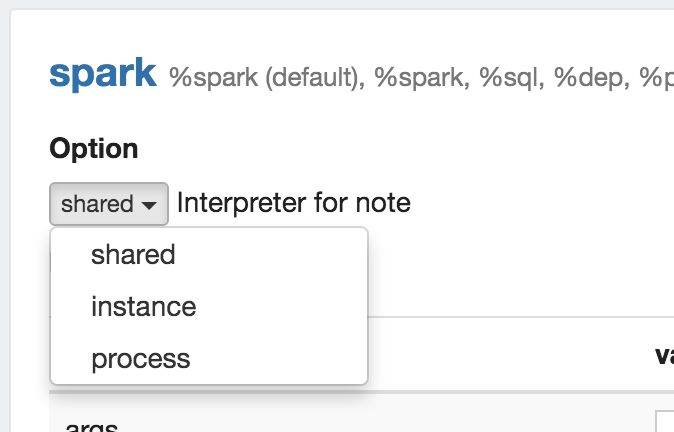
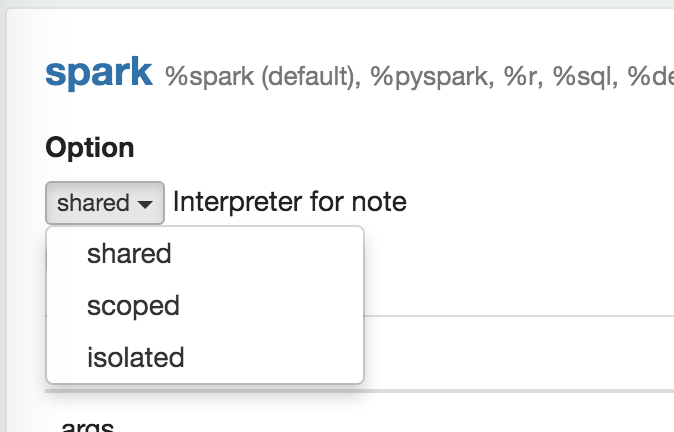
instance -> scoped, process -> isolated

diff --git a/zeppelin-web/src/app/interpreter/interpreter-create/interpreter-create.html b/zeppelin-web/src/app/interpreter/interpreter-create/interpreter-create.html
@@ -53,15 +53,15 @@ limitations under the License.
               <li>
                 <a style="cursor:pointer"
                    tooltip="Separate Interpreter instance for each note"
-                   ng-click="setSessionOption(setting.id, 'instance')">
-                  instance
+                   ng-click="setSessionOption(setting.id, 'scoped)">
+                  scoped
                 </a>
               </li>
               <li>
                 <a style="cursor:pointer"
                    tooltip="Separate Interpreter process for each note"
-                   ng-click="setSessionOption(setting.id, 'process')">
-                  process
+                   ng-click="setSessionOption(setting.id, 'isolated)">
+                  isolated
                 </a>
               </li>
             </ul>

diff --git a/zeppelin-web/src/app/interpreter/interpreter.controller.js b/zeppelin-web/src/app/interpreter/interpreter.controller.js
@@ -70,10 +70,10 @@ angular.module('zeppelinWebApp').controller('InterpreterCtrl', function($scope, 
       option = setting.option;
     }
 
-    if (sessionOption === 'process') {
+    if (sessionOption === 'isolated') {
       option.perNoteSession = false;
       option.perNoteProcess = true;
-    } else if (sessionOption === 'instance') {
+    } else if (sessionOption === 'scoped') {
       option.perNoteSession = true;
       option.perNoteProcess = false;
     } else {
@@ -93,9 +93,9 @@ angular.module('zeppelinWebApp').controller('InterpreterCtrl', function($scope, 
     }
 
     if (option.perNoteSession) {
-      return 'instance';
+      return 'scoped';
     } else if (option.perNoteProcess) {
-      return 'process';
+      return 'isolated';
     } else {
       return 'shared';
     }

diff --git a/zeppelin-web/src/app/interpreter/interpreter.html b/zeppelin-web/src/app/interpreter/interpreter.html
@@ -128,15 +128,15 @@ limitations under the License.
             <li>
               <a style="cursor:pointer"
                  tooltip="Separate Interpreter instance for each note"
-                 ng-click="setSessionOption(setting.id, 'instance')">
-                instance
+                 ng-click="setSessionOption(setting.id, 'scoped)">
+                scoped
               </a>
             </li>
             <li>
               <a style="cursor:pointer"
                  tooltip="Separate Interpreter process for each note"
-                 ng-click="setSessionOption(setting.id, 'process')">
-                process
+                 ng-click="setSessionOption(setting.id, 'isolated)">
+                isolated
               </a>
             </li>
           </ul>

diff --git a/docs/manual/interpreters.md b/docs/manual/interpreters.md
@@ -54,8 +54,8 @@ Each interpreters is belonged to a single group and registered together. All of 
 
 ## Interpreter binding mode
 
-Each Interpreter Setting can choose one of 'shared', 'instance', 'process' interpreter binding mode.
-In 'shared' mode, every notebook binded to the Interpreter Setting will share the single Interpreter instance. In 'instance' mode, each notebook will create new Interpreter instance in the same interpreter process. In 'process' mode, each notebook will create new Interpreter process.
+Each Interpreter Setting can choose one of 'shared', 'scoped', 'isolated' interpreter binding mode.
+In 'shared' mode, every notebook binded to the Interpreter Setting will share the single Interpreter instance. In 'scoped' mode, each notebook will create new Interpreter instance in the same interpreter process. In 'isolated' mode, each notebook will create new Interpreter process.
 
 <img src="/assets/themes/zeppelin/img/screenshots/interpreter_persession.png" width="400px">
 

diff --git a/docs/interpreter/spark.md b/docs/interpreter/spark.md
@@ -336,7 +336,7 @@ To learn more about dynamic form, checkout [Dynamic Form](../manual/dynamicform.
 
 ### Interpreter setting option.
 
-Interpreter setting can choose one of 'shared', 'instance', 'process' option. Spark interpreter creates separate scala compiler per each notebook but share a single SparkContext in 'instance' mode (experimental). It creates separate SparkContext per each notebook in 'process' mode.
+Interpreter setting can choose one of 'shared', 'scoped', 'isolated' option. Spark interpreter creates separate scala compiler per each notebook but share a single SparkContext in 'scoped' mode (experimental). It creates separate SparkContext per each notebook in 'isolated' mode.
 
 
 ## Setting up Zeppelin with Kerberos
